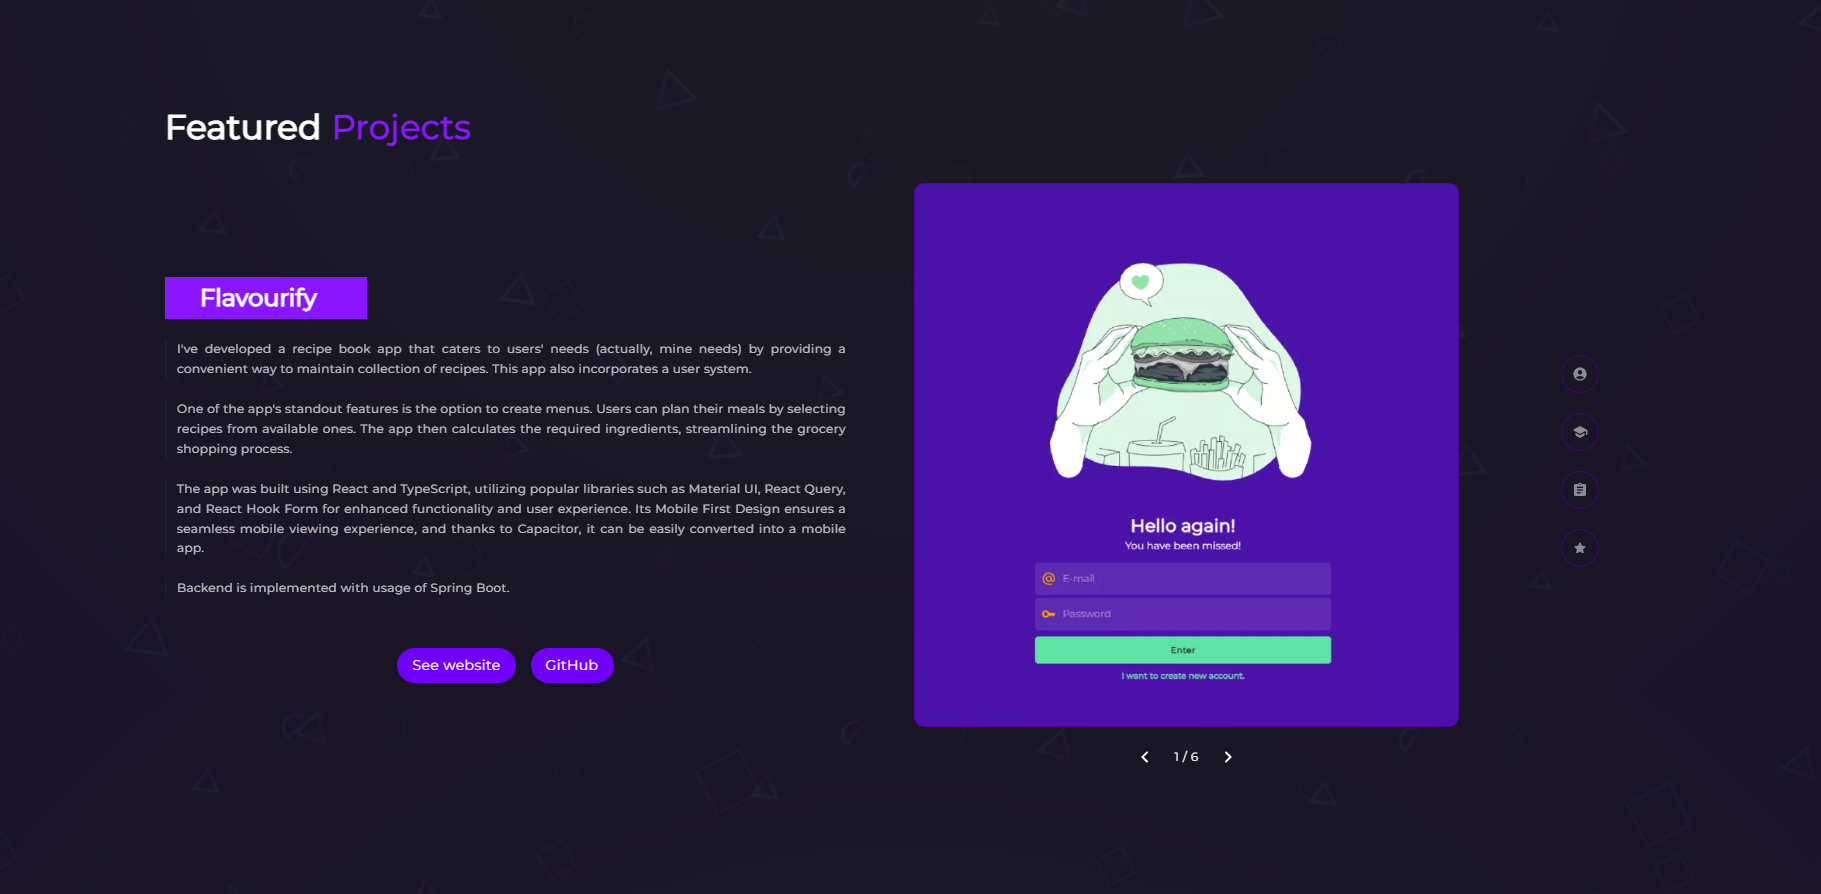
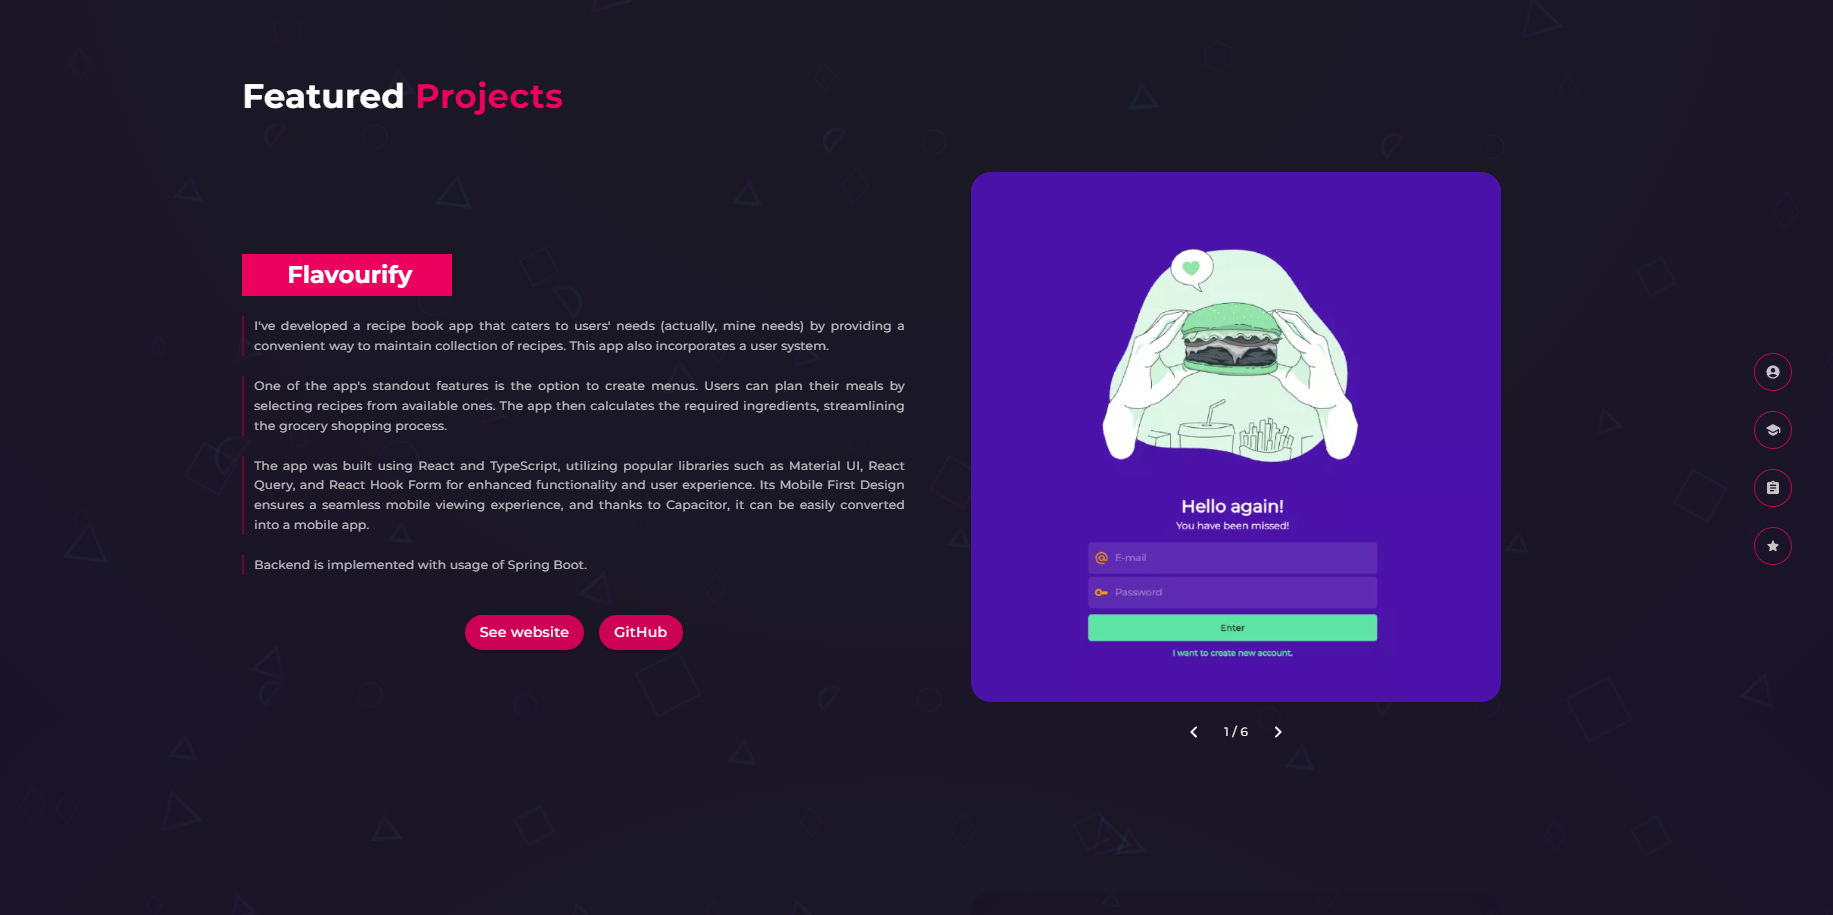
P-45: Further optimization and style tweaks

diff --git a/src/pages/landing-page/LandingPage.tsx b/src/pages/landing-page/LandingPage.tsx
@@ -1,6 +1,6 @@
 import { Grid } from '@mui/material';
 import './LandingPage.scss';
-import { useRef } from 'react';
+import { useEffect, useRef, useState } from 'react';
 import {
   AccountCircleRounded,
   AssignmentRounded,
@@ -22,27 +22,51 @@ import Navbar from '../../components/navigation/navbar/Navbar';
 import { Skills } from '../../shared/constants/Skills';
 import { useSlideInProps } from '../../shared/hooks/useSlideInProps';
 import { useWindowSize } from '../../shared/hooks/useWindowResize';
+import { useIntersection } from '../../shared/hooks/useIntersection';
 
 const MD_BREAKPOINT = 900;
 
 const LandingPage = () => {
   const [windowWidth] = useWindowSize();
+  const [activeSectionIndex, setActiveSectionIndex] = useState(0);
 
   const projectsRef = useRef<HTMLDivElement>(null);
   const aboutMeRef = useRef<HTMLDivElement>(null);
   const experienceRef = useRef<HTMLDivElement>(null);
   const skillsRef = useRef<HTMLDivElement>(null);
 
-  const isSkillsSectionVisible = useAppearance(skillsRef);
-  const isProjectSectionVisible = useAppearance(projectsRef) || isSkillsSectionVisible;
-  const isExperienceSectionVisible = useAppearance(experienceRef);
-  const isAboutMeSectionVisible = useAppearance(aboutMeRef, '200px');
+  const hasSkillsAppeared = useAppearance(skillsRef);
+  const hasProjectsAppeared = useAppearance(projectsRef) || hasSkillsAppeared;
+  const hasExperienceAppeared = useAppearance(experienceRef);
+  const hasAboutMeAppeared = useAppearance(aboutMeRef, '200px');
 
-  const skillsSlideInProps = useSlideInProps(isSkillsSectionVisible, 'RIGHT');
-  const projectsSlideInProps = useSlideInProps(isProjectSectionVisible, 'LEFT');
-  const experienceSlideInProps = useSlideInProps(isExperienceSectionVisible, 'RIGHT');
-  const aboutMeSlideInProps = useSlideInProps(isAboutMeSectionVisible, 'RIGHT');
-  const developerSlideInProps = useSlideInProps(isAboutMeSectionVisible, 'LEFT');
+  const isSkillsSectionVisible = useIntersection(skillsRef);
+  const isProjectsSectionVisible = useIntersection(projectsRef);
+  const isExperienceSectionVisible = useIntersection(experienceRef);
+  const isAboutMeSectionVisible = useIntersection(aboutMeRef);
+
+  const skillsSlideInProps = useSlideInProps(hasSkillsAppeared, 'RIGHT');
+  const projectsSlideInProps = useSlideInProps(hasProjectsAppeared, 'LEFT');
+  const experienceSlideInProps = useSlideInProps(hasExperienceAppeared, 'RIGHT');
+  const aboutMeSlideInProps = useSlideInProps(hasAboutMeAppeared, 'RIGHT');
+  const developerSlideInProps = useSlideInProps(hasAboutMeAppeared, 'LEFT');
+
+  useEffect(() => {
+    if (isAboutMeSectionVisible) {
+      setActiveSectionIndex(0);
+    } else if (isExperienceSectionVisible) {
+      setActiveSectionIndex(1);
+    } else if (isProjectsSectionVisible) {
+      setActiveSectionIndex(2);
+    } else if (isSkillsSectionVisible) {
+      setActiveSectionIndex(3);
+    }
+  }, [
+    isSkillsSectionVisible,
+    isProjectsSectionVisible,
+    isExperienceSectionVisible,
+    isAboutMeSectionVisible
+  ]);
 
   return (
     <Grid
@@ -97,6 +121,7 @@ const LandingPage = () => {
       </Grid>
 
       <Navbar
+        activeIndex={activeSectionIndex}
         items={[
           { icon: <AccountCircleRounded />, ref: aboutMeRef },
           { icon: <SchoolRounded />, ref: experienceRef },

diff --git a/src/components/content/experience/experience-list/experience-info/ExperienceInfo.tsx b/src/components/content/experience/experience-list/experience-info/ExperienceInfo.tsx
@@ -1,9 +1,10 @@
-import { Box, Collapse, IconButton, Typography } from '@mui/material';
+import { Box, Collapse, Typography } from '@mui/material';
 import { Experience } from 'shared/types/interfaces/Experience';
 import './ExperienceInfo.scss';
 import ExperienceResponsibilities from '../experience-responsibilities/ExperienceResponsibilities';
-import { useState } from 'react';
+import { memo, useState } from 'react';
 import { KeyboardArrowDownRounded } from '@mui/icons-material';
+import classNames from 'classnames';
 
 const ExperienceInfo = ({
   since,
@@ -36,15 +37,17 @@ const ExperienceInfo = ({
       )}
       {responsibilities?.length && (
         <>
-          <Box>
-            <Typography variant="caption">Responsibilities</Typography>
-            <IconButton
-              aria-label="toggle-responsibilities-visibility-button"
+          <Box
+            onClick={toggleResponsibilitiesVisibility}
+            className="expand-button-container"
+            aria-label="toggle-responsibilities-visibility-button">
+            <Typography fontWeight={750} variant="caption">
+              {areResponsibilitiesVisible ? 'Wow!' : 'See what I did!'}
+            </Typography>
+            <KeyboardArrowDownRounded
+              className={classNames('expand-button', { collapse: areResponsibilitiesVisible })}
               sx={{ color: 'text.primary' }}
-              className={`expand-button ${areResponsibilitiesVisible ? 'collapse' : ''}`}
-              onClick={toggleResponsibilitiesVisibility}>
-              <KeyboardArrowDownRounded />
-            </IconButton>
+            />
           </Box>
           <Collapse in={areResponsibilitiesVisible}>
             <ExperienceResponsibilities responsibilities={responsibilities} />
@@ -55,4 +58,4 @@ const ExperienceInfo = ({
   );
 };
 
-export default ExperienceInfo;
+export default memo(ExperienceInfo);

diff --git a/src/components/content/about-developer/AboutDeveloper.tsx b/src/components/content/about-developer/AboutDeveloper.tsx
@@ -1,6 +1,7 @@
 import { Box, SxProps, Typography } from '@mui/material';
 import './AboutDeveloper.scss';
 import { Developer } from 'shared/types/interfaces/Developer';
+import { memo } from 'react';
 
 interface AboutDeveloperProps extends Developer {
   sx?: SxProps;
@@ -18,6 +19,7 @@ const AboutDeveloper = ({ name, role, picture, contacts, sx }: AboutDeveloperPro
           </Typography>
         </Box>
       </Box>
+
       <Box component="section" className="contacts">
         {contacts.map((contact) => (
           <a key={contact.name} href={contact.href} target="_blank" rel="noreferrer">
@@ -26,10 +28,11 @@ const AboutDeveloper = ({ name, role, picture, contacts, sx }: AboutDeveloperPro
         ))}
       </Box>
       <Typography variant="caption" className="all-rights-reserved">
-        HC. All rights reserved ©
+        {`HC. All rights reserved ©
+        Feel free to contact me.`}
       </Typography>
     </Box>
   );
 };
 
-export default AboutDeveloper;
+export default memo(AboutDeveloper);

diff --git a/src/components/content/about-developer/AboutDeveloper.scss b/src/components/content/about-developer/AboutDeveloper.scss
@@ -24,8 +24,8 @@
       border: thin solid $gray;
       filter: invert(1) brightness(40%);
       transition: 0.2s;
-      width: 20px;
-      height: 20px;
+      width: 25px;
+      height: 25px;
 
       &:hover {
         filter: invert(1);
@@ -46,7 +46,7 @@
     .text-container {
       .role {
         width: fit-content;
-        background-color: $purple-lighter;
+        background-color: $primary-light;
         padding: $spacing-s $spacing-l;
         border-radius: 50px;
         font-weight: 750;
@@ -63,8 +63,8 @@
     .picture {
       max-width: 200px;
       border-radius: 20px;
-      border: thin solid $purple-lighter;
-      background: $purple;
+      border: thin solid $primary-light;
+      background: $primary;
       margin-bottom: $spacing-m;
       filter: grayscale(0.25);
     }
@@ -72,7 +72,7 @@
 
   .all-rights-reserved {
     opacity: 0.5;
-    display: block;
     width: fit-content;
+    white-space: pre-line;
   }
 }

diff --git a/src/components/navigation/navbar/Navbar.tsx b/src/components/navigation/navbar/Navbar.tsx
@@ -11,12 +11,13 @@ export interface NavbarItem {
 }
 
 interface NavbarProps {
+  activeIndex: number;
   items: NavbarItem[];
 }
 
 const SCROLL_THRESHOLD = 50;
 
-const Navbar = ({ items }: NavbarProps) => {
+const Navbar = ({ items, activeIndex }: NavbarProps) => {
   const isScrollingDown = useScrollDirection(SCROLL_THRESHOLD) === 'down';
 
   const scrollTo = (element: HTMLDivElement | null) => {
@@ -26,7 +27,10 @@ const Navbar = ({ items }: NavbarProps) => {
   const buildItems = () => {
     return items.map((item, index) => {
       return (
-        <Box className="navbar-item" onClick={() => scrollTo(item.ref?.current)} key={index}>
+        <Box
+          className={classNames('navbar-item', { active: activeIndex === index })}
+          onClick={() => scrollTo(item.ref?.current)}
+          key={index}>
           {item.icon}
         </Box>
       );

diff --git a/src/components/content/experience/experience-list/experience-info/ExperienceInfo.scss b/src/components/content/experience/experience-list/experience-info/ExperienceInfo.scss
@@ -7,7 +7,7 @@
   &:hover {
     .experience-header {
       .date {
-        background: $purple-lighter;
+        background: $primary-light;
       }
     }
   }
@@ -26,7 +26,7 @@
       display: block;
       border-radius: 50px;
       padding: $spacing-s $spacing-l;
-      background: rgba($purple, 0.5);
+      background: rgba($primary, 0.5);
     }
 
     .company-name {
@@ -50,12 +50,20 @@
     }
   }
 
-  .expand-button {
-    transition: 0.2s;
-    margin-left: $spacing-m;
+  .expand-button-container {
+    margin: $spacing-s 0;
+    display: flex;
+    align-items: center;
+    cursor: pointer;
+    width: fit-content;
 
-    &.collapse {
-      transform: rotate(180deg);
+    .expand-button {
+      transition: 0.2s;
+      margin-left: $spacing-m;
+
+      &.collapse {
+        transform: rotate(180deg);
+      }
     }
   }
 }

diff --git a/src/components/content/project/project-picture/ProjectPicture.tsx b/src/components/content/project/project-picture/ProjectPicture.tsx
@@ -1,6 +1,6 @@
 import './ProjectPicture.scss';
 import { Box, IconButton, Typography } from '@mui/material';
-import { useState } from 'react';
+import { memo, useState } from 'react';
 import { KeyboardArrowLeftRounded, KeyboardArrowRightRounded } from '@mui/icons-material';
 
 interface ProjectPictureProps {
@@ -8,7 +8,7 @@ interface ProjectPictureProps {
   name: string;
 }
 
-export const ProjectPicture = ({ imageSrc, name }: ProjectPictureProps) => {
+const ProjectPicture = ({ imageSrc, name }: ProjectPictureProps) => {
   const [imageIndex, setImageIndex] = useState(0);
 
   const incrementImageIndex = () => {
@@ -46,3 +46,5 @@ export const ProjectPicture = ({ imageSrc, name }: ProjectPictureProps) => {
     </Box>
   );
 };
+
+export default memo(ProjectPicture);

diff --git a/src/components/content/project/project-container/ProjectContainer.tsx b/src/components/content/project/project-container/ProjectContainer.tsx
@@ -2,8 +2,8 @@ import { Box, Button, Grid, Typography } from '@mui/material';
 import './ProjectContainer.scss';
 import { Project } from 'shared/types/interfaces/Project';
 import Description from 'components/content/description/Description';
-import { ProjectPicture } from '../project-picture/ProjectPicture';
-import { useRef } from 'react';
+import ProjectPicture from '../project-picture/ProjectPicture';
+import { memo, useRef } from 'react';
 import { useIntersection } from 'shared/hooks/useIntersection';
 import classNames from 'classnames';
 
@@ -52,4 +52,4 @@ const ProjectContainer = ({ name, description, url, github, imageSrc }: Project)
   );
 };
 
-export default ProjectContainer;
+export default memo(ProjectContainer);

diff --git a/src/AppProvider.tsx b/src/AppProvider.tsx
@@ -39,8 +39,17 @@ const AppProvider = ({ children }: AppProviderProps) => {
             props: { variant: 'contained' },
             style: {
               color: '#ffffff',
-              backgroundColor: '#7100fb',
-              ':hover': { backgroundColor: darken('#7100fb', 0.15) }
+              backgroundColor: '#cc0055',
+              ':hover': { backgroundColor: darken('#cc0055', 0.15) }
+            }
+          },
+          {
+            props: { variant: 'outlined' },
+            style: {
+              color: '#ffffff',
+              borderColor: '#cc0055',
+              borderRadius: '100px',
+              ':hover': { borderColor: darken('#cc0055', 0.15) }
             }
           }
         ]

diff --git a/src/components/navigation/navbar/Navbar.scss b/src/components/navigation/navbar/Navbar.scss
@@ -12,7 +12,7 @@
   gap: $spacing-xl;
   padding: $spacing-s;
   border-radius: 50px;
-  background-color: rgba($purple-darker, 0.5);
+  background-color: rgba($primary-dark, 0.5);
   color: white;
   transition: transform 0.3s;
 
@@ -39,12 +39,15 @@
 
   .navbar-item {
     @include tile;
-    border-color: $purple-lighter;
     border-radius: 50px;
     display: flex;
     cursor: pointer;
     opacity: 0.75;
     transition: 0.2s;
+
+    &.active {
+      border-color: $primary-light;
+    }
 
     * {
       font-size: 1rem;

diff --git a/src/components/content/experience/experience-list/ExperienceContainer.scss b/src/components/content/experience/experience-list/ExperienceContainer.scss
@@ -4,7 +4,7 @@
   position: relative;
   display: flex;
   flex-direction: column;
-  border-left: 2px solid rgba($purple-darker, 0.75);
+  border-left: 2px solid rgba($primary-dark, 0.75);
   padding-left: $spacing-xl;
   gap: $spacing-xxl;
 
@@ -13,7 +13,7 @@
     left: 0;
     width: 10px;
     aspect-ratio: 1;
-    background: $purple-lighter;
+    background: $primary-light;
     border-radius: 10px;
     transform: translateX(calc(-50% - 1px)) translateY($spacing-l);
     box-sizing: border-box;

diff --git a/src/components/content/project/project-container/ProjectContainer.scss b/src/components/content/project/project-container/ProjectContainer.scss
@@ -4,10 +4,10 @@
 .project-container {
   .project-name {
     margin-top: $spacing-xl;
-    border-left: 5px solid $purple-lighter;
+    border-left: 5px solid $primary-light;
     margin-bottom: $spacing-xl;
     width: fit-content;
-    background-image: linear-gradient(to right, $purple-lighter 50%, transparent 50%);
+    background-image: linear-gradient(to right, $primary-light 50%, transparent 50%);
     background-repeat: no-repeat;
     background-size: 200% 100%;
     transition: 0.5s ease;
